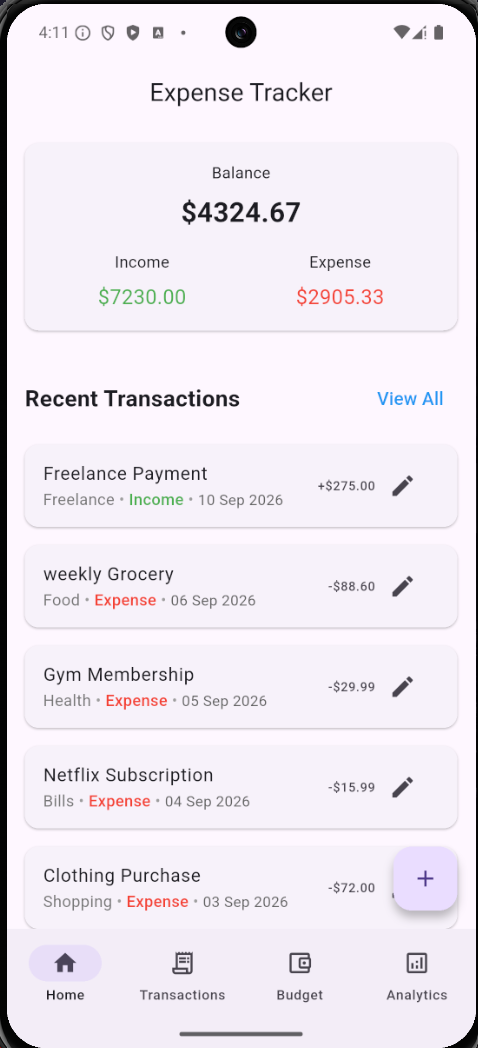
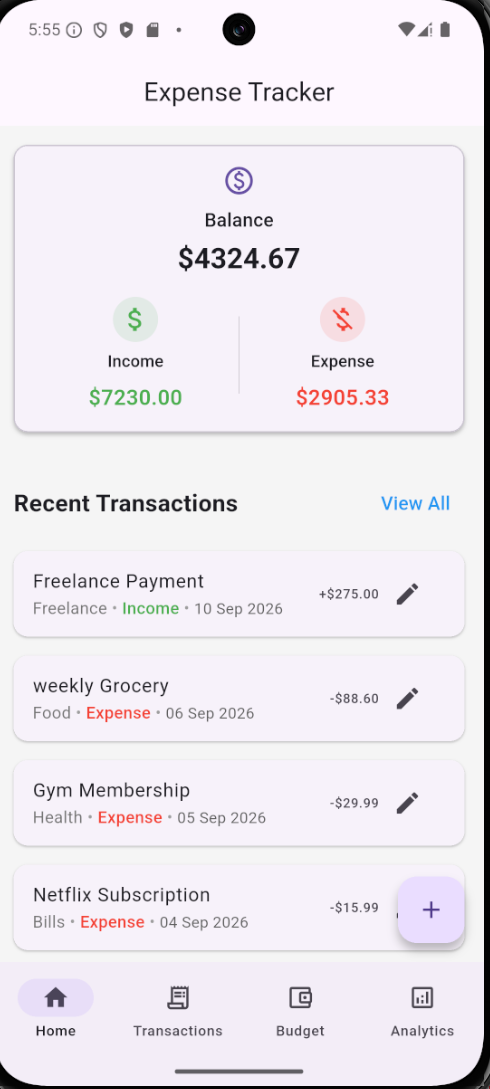
Improve Balance Card

diff --git a/lib/widgets/balance_card.dart b/lib/widgets/balance_card.dart
@@ -13,56 +13,124 @@ class BalanceCard extends StatelessWidget {
 
   @override
   Widget build(BuildContext context) {
+    final colorScheme = Theme.of(context).colorScheme;
     return Card(
      margin: const EdgeInsets.all(16),
+     elevation: 2,
+     color: colorScheme.surfaceContainerLow,
+     shape: RoundedRectangleBorder(
+       borderRadius: BorderRadius.circular(12),
+       side: BorderSide(
+         color: colorScheme.outlineVariant,
+        ),
+      ),
      child: Padding(
         padding: const EdgeInsets.all(16),
         child: Column(
           children: [
-           const Text('Balance'),
+
+           //balance
+           Icon(
+             Icons.paid_outlined,
+             size: 28,
+             color: colorScheme.primary,
+           ),
            const SizedBox(height: 8),
            Text(
+             'Balance',
+             style: Theme.of(context).textTheme.titleMedium,
+            ),
+           const SizedBox(height: 4),
+           Text(
               '\$${balance.toStringAsFixed(2)}',
-              style: const TextStyle(
-                fontSize: 24,
+              style: Theme.of(context).textTheme.headlineSmall?.copyWith(
                 fontWeight: FontWeight.bold,
               ),
             ),
+
             const SizedBox(height: 16),
+
             Row(
               mainAxisAlignment: MainAxisAlignment.spaceAround,
               children: [
-                Column(
-                  children: [
-                    const Text('Income'),
-                    const SizedBox(height: 8),
-                    Text(
-                      '\$${income.toStringAsFixed(2)}',
-                      style: const TextStyle(
-                        fontSize: 18,
-                        color: Colors.green,
-                      ),
-                    ),
-                  ],
+
+                //income
+                Expanded(
+                  child: _SummaryItem(
+                    icon: Icons.attach_money,
+                    title: 'Income',
+                    amount: income,
+                    color: Colors.green,
+                  ),
                 ),
-                Column(
-                  children: [
-                    const Text('Expense'),
-                    const SizedBox(height: 8),
-                    Text(
-                      '\$${expense.toStringAsFixed(2)}',
-                      style: const TextStyle(
-                        fontSize: 18,
-                        color: Colors.red,
-                      ),
-                    ),
-                  ],
+
+                // Divider
+                Container(
+                  height: 65,
+                  width: 1,
+                  color: colorScheme.outline.withValues(alpha: 0.3),
+                ),
+
+                //expense
+                Expanded(
+                  child: _SummaryItem(
+                    icon: Icons.money_off,
+                    title: 'Expense',
+                    amount: expense,
+                    color: Colors.red,
+                  ),
                 ),
               ],
             ),
           ],
         ),
       ),
+    );
+  }
+}
+
+class _SummaryItem extends StatelessWidget{
+  final IconData icon;
+  final String title;
+  final double amount;
+  final Color color;
+  const _SummaryItem ({
+    required this.icon,
+    required this.title,
+    required this.amount,
+    required this.color,
+  });
+  @override
+  Widget build(BuildContext context) {
+    return Column(
+      children: [
+        Container(
+          padding: const EdgeInsets.all(6),
+          decoration: BoxDecoration(
+            color: color.withValues(alpha: 0.12),
+            shape: BoxShape.circle,
+          ),
+          child: Icon(
+            icon,
+            size: 26,
+            color: color,
+          ),
+        ),
+        const SizedBox(height: 6),
+         Text(
+          title,
+          style: Theme.of(context).textTheme.titleSmall,
+        ),
+        const SizedBox(height: 8),
+        Text(
+          '\$${amount.toStringAsFixed(2)}',
+          style:TextStyle(
+            fontSize: 18,
+            color: color,
+            fontWeight: FontWeight.w600,
+          ),
+        ),
+      ],
     );
   }
 }
